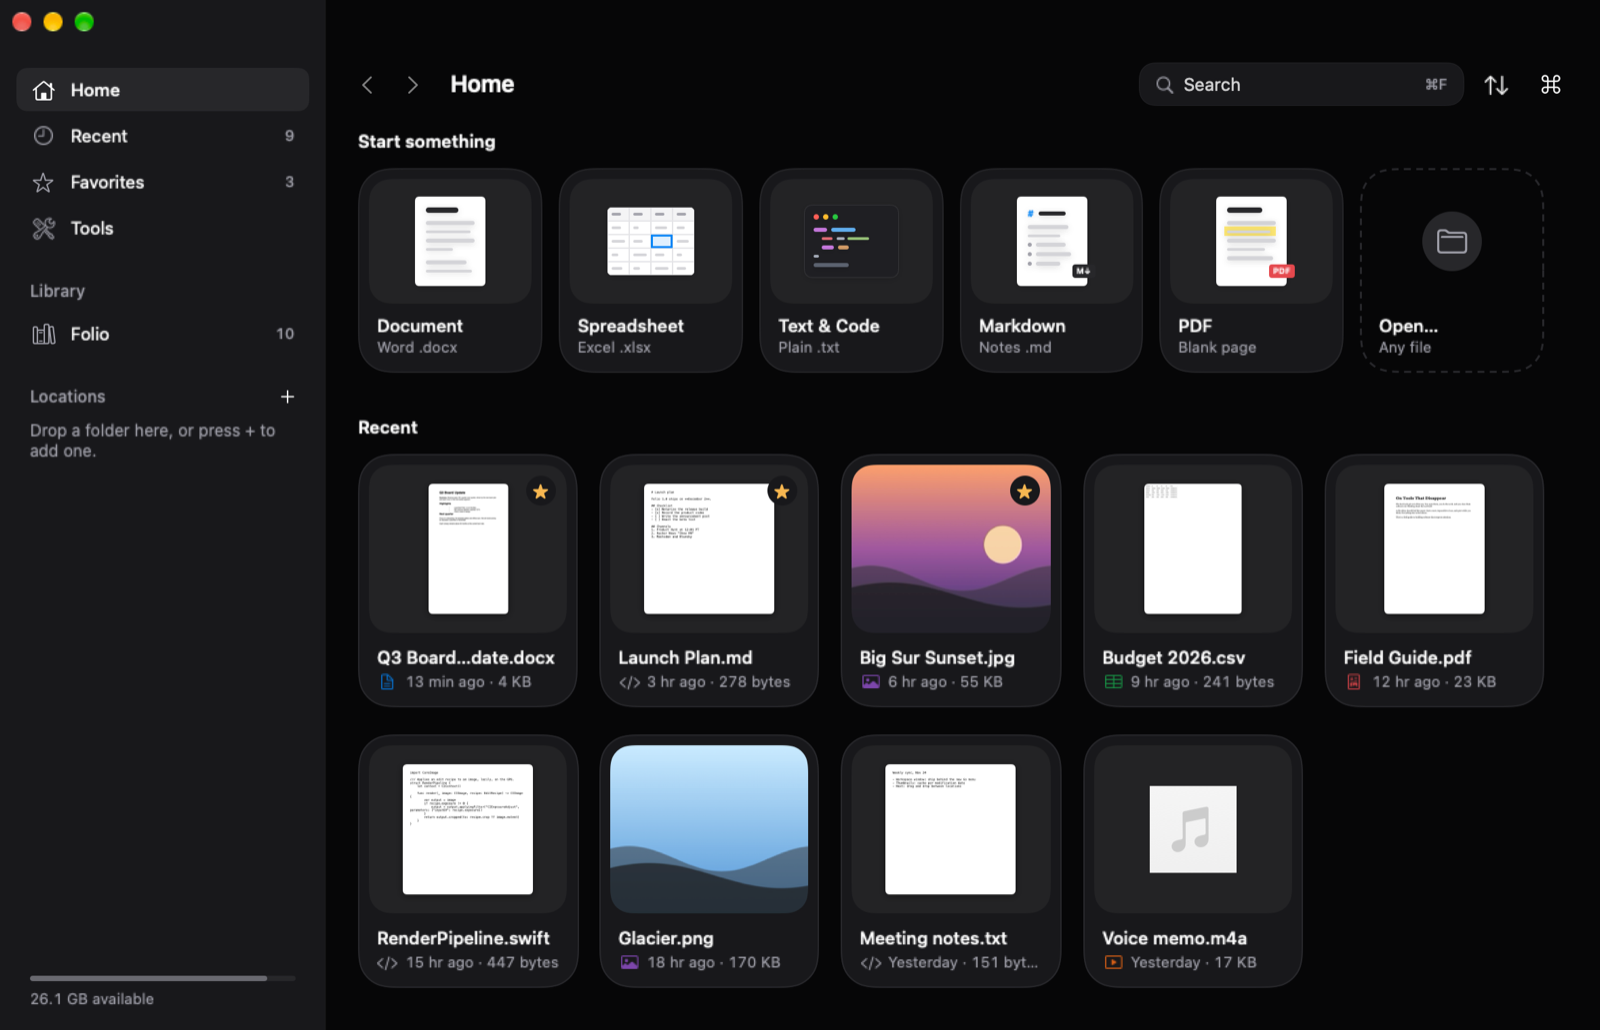
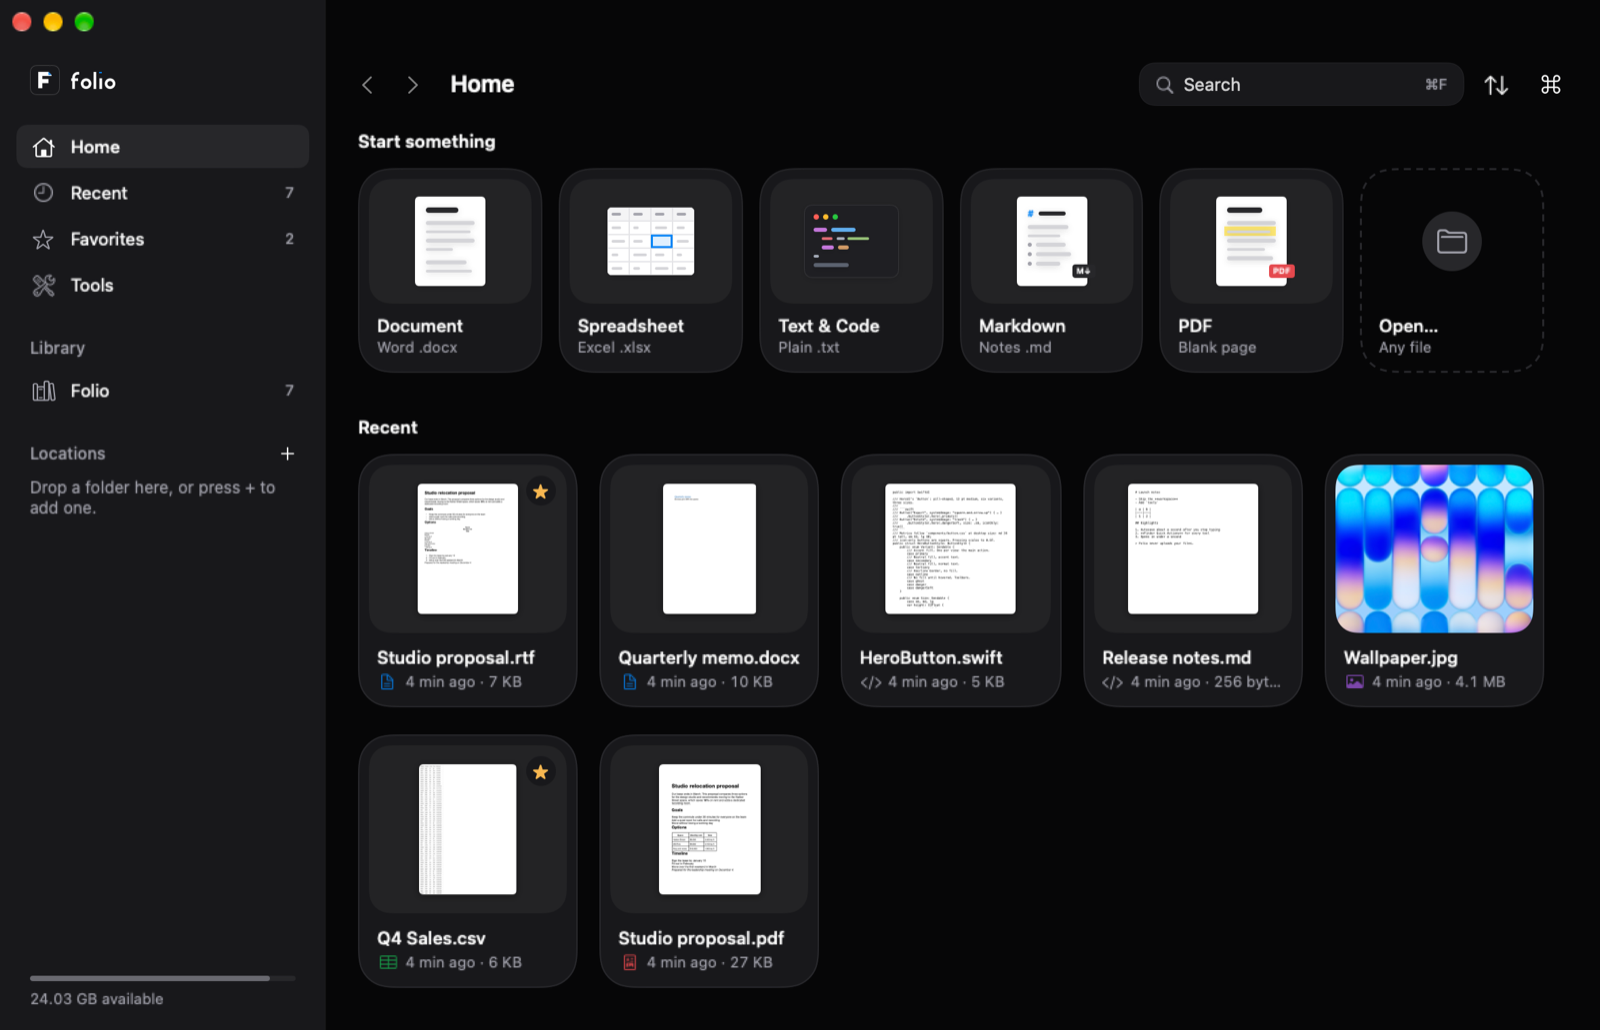
Brand the workspace and fix empty Recent outside ~/Documents
- Sidebar shows the Folio lockup, drawn by new FolioKit shapes (FolioMark,
  FolioWordmark) from the brand coordinates; the mark gets a hairline on dark
  backgrounds so it never dissolves into the sidebar.
- Recent and Favorites dropped every file when the library or a location sat
  under a path the noise filter skips (~/Library/...): the trusted-folder check
  compared against a doubled trailing slash. TrustedFolders normalises paths;
  tests cover nested files, prefix siblings and trailing slashes.
- README leads with the workspace and the brand lockup; site hero is the
  workspace; screenshots retaken against a sample library.

diff --git a/Sources/FolioKit/Design/FolioMark.swift b/Sources/FolioKit/Design/FolioMark.swift
@@ -1,0 +1,111 @@
+public import SwiftUI
+
+// The Folio mark and wordmark as SwiftUI shapes.
+//
+// Same coordinates as brand/logo/*.svg and scripts/make-icon.swift (a 64-unit tile for the
+// mark, an 84×33 box for the wordmark), so the app, the icon and the brand files never
+// drift. See brand/README.md for the construction.
+
+/// The folded F: the sheet, without the fold.
+public struct FolioGlyphSheet: Shape {
+    public init() {}
+    public func path(in rect: CGRect) -> Path {
+        Self.points(
+            [(20, 16), (40, 16), (46, 22), (46, 24), (28, 24), (28, 30), (40, 30), (40, 38), (28, 38), (28, 48), (20, 48)], in: rect)
+    }
+
+    /// Maps points on the 64-unit tile into `rect`, with the brand's 1.1× scale about the centre.
+    static func points(_ pts: [(CGFloat, CGFloat)], in rect: CGRect) -> Path {
+        let unit = min(rect.width, rect.height) / 64
+        func map(_ p: (CGFloat, CGFloat)) -> CGPoint {
+            CGPoint(x: rect.minX + (32 + (p.0 - 33) * 1.1) * unit, y: rect.minY + (32 + (p.1 - 32) * 1.1) * unit)
+        }
+        var path = Path()
+        path.move(to: map(pts[0]))
+        for p in pts.dropFirst() { path.addLine(to: map(p)) }
+        path.closeSubpath()
+        return path
+    }
+}
+
+/// The folded corner of the F.
+public struct FolioGlyphFold: Shape {
+    public init() {}
+    public func path(in rect: CGRect) -> Path {
+        FolioGlyphSheet.points([(40, 16), (40, 22), (46, 22)], in: rect)
+    }
+}
+
+/// The app-icon mark: Eclipse tile, Snow sheet, Folio Blue fold.
+///
+/// On dark backgrounds the Eclipse tile gets a hairline edge (brand/README.md, Color),
+/// so the mark never dissolves into a dark sidebar.
+public struct FolioMark: View {
+    @Environment(\.colorScheme) private var scheme
+    public init() {}
+    public var body: some View {
+        GeometryReader { geo in
+            let side = min(geo.size.width, geo.size.height)
+            ZStack {
+                RoundedRectangle(cornerRadius: side * 0.225, style: .continuous).fill(Color(hex: 0x18181B))
+                if scheme == .dark {
+                    RoundedRectangle(cornerRadius: side * 0.225, style: .continuous)
+                        .strokeBorder(.white.opacity(0.18), lineWidth: max(0.5, side / 64))
+                }
+                FolioGlyphSheet().fill(Color(hex: 0xFCFCFC))
+                FolioGlyphFold().fill(Hero.accent)
+            }
+            .frame(width: side, height: side)
+        }
+        .aspectRatio(1, contentMode: .fit)
+        .accessibilityLabel("Folio")
+    }
+}
+
+/// The geometric "folio" wordmark. Takes the foreground style; the i's dot stays Folio Blue.
+public struct FolioWordmark: View {
+    public init() {}
+    public var body: some View {
+        GeometryReader { geo in
+            let k = min(geo.size.width / 84, geo.size.height / 33)
+            ZStack(alignment: .topLeading) {
+                WordmarkStrokes()
+                    .stroke(style: StrokeStyle(lineWidth: 5 * k, lineCap: .butt))
+                Rectangle()
+                    .fill(Hero.accent)
+                    .frame(width: 5 * k, height: 5 * k)
+                    .offset(x: 54 * k)
+            }
+            .frame(width: 84 * k, height: 33 * k, alignment: .topLeading)
+        }
+        .aspectRatio(84 / 33, contentMode: .fit)
+        .accessibilityLabel("Folio")
+    }
+}
+
+/// The wordmark's strokes in an 84×33 box.
+private struct WordmarkStrokes: Shape {
+    func path(in rect: CGRect) -> Path {
+        let k = min(rect.width / 84, rect.height / 33)
+        func p(_ x: CGFloat, _ y: CGFloat) -> CGPoint { CGPoint(x: rect.minX + x * k, y: rect.minY + y * k) }
+        var path = Path()
+        // f
+        path.move(to: p(5.5, 32))
+        path.addLine(to: p(5.5, 10.5))
+        path.addArc(center: p(13.5, 10.5), radius: 8 * k, startAngle: .degrees(180), endAngle: .degrees(270), clockwise: false)
+        path.addLine(to: p(16, 2.5))
+        path.move(to: p(1, 14.5))
+        path.addLine(to: p(14, 14.5))
+        // o
+        path.addEllipse(in: CGRect(origin: p(21.5, 14.5), size: CGSize(width: 15 * k, height: 15 * k)))
+        // l
+        path.move(to: p(45.5, 0))
+        path.addLine(to: p(45.5, 32))
+        // i
+        path.move(to: p(56.5, 12))
+        path.addLine(to: p(56.5, 32))
+        // o
+        path.addEllipse(in: CGRect(origin: p(66.5, 14.5), size: CGSize(width: 15 * k, height: 15 * k)))
+        return path
+    }
+}

diff --git a/Sources/Folio/Workspace/WorkspaceModel.swift b/Sources/Folio/Workspace/WorkspaceModel.swift
@@ -226,8 +226,9 @@ final class WorkspaceModel {
         recentGeneration += 1
         let generation = recentGeneration
         let snapshot = dates
+        let roots = trustedRoots
         Task {
-            let items = await Self.load(snapshot)
+            let items = await Self.load(snapshot, trusted: roots)
             guard generation == recentGeneration else { return }
             recent = FileSort.lastOpened.sorted(items.filter { !$0.isFolder }, ascending: false)
             loadingRecent = false
@@ -240,8 +241,9 @@ final class WorkspaceModel {
         var urls = spotlightFavorites
         for item in libraryItems + folderItems + recent where item.isFavorite { urls.insert(item.url.standardizedFileURL) }
         let snapshot = Dictionary(urls.map { ($0, Date?.none) }) { a, _ in a }
+        let roots = trustedRoots
         Task {
-            let items = await Self.load(snapshot)
+            let items = await Self.load(snapshot, trusted: roots)
             favorites = FileSort.lastOpened.sorted(items.filter(\.isFavorite), ascending: false)
         }
     }
@@ -285,9 +287,17 @@ final class WorkspaceModel {
         FileItem.list(folder: folder)
     }
 
-    nonisolated private static func load(_ urls: [URL: Date?]) async -> [FileItem] {
-        urls.compactMap { url, date in SpotlightSearch.isNoise(url) ? nil : FileItem.load(url, lastUsed: date) }
+    /// Loads items, skipping system noise (caches, app support) unless the file is inside a
+    /// folder the user chose: the library and added locations are never noise, wherever they are.
+    nonisolated private static func load(_ urls: [URL: Date?], trusted roots: [URL]) async -> [FileItem] {
+        return urls.compactMap { url, date in
+            let trusted = TrustedFolders.contains(url, in: roots)
+            return !trusted && SpotlightSearch.isNoise(url) ? nil : FileItem.load(url, lastUsed: date)
+        }
     }
+
+    /// Folders the user picked, whose contents always count as their files.
+    private var trustedRoots: [URL] { [libraryURL] + locations }
 
     nonisolated private static func capacity(of url: URL) async -> (Int64, Int64)? {
         let values = try? url.resourceValues(forKeys: [.volumeAvailableCapacityForImportantUsageKey, .volumeTotalCapacityKey])

diff --git a/Tests/FolioTests/WorkspaceLogicTests.swift b/Tests/FolioTests/WorkspaceLogicTests.swift
@@ -167,3 +167,25 @@ struct LibraryTests {
         #expect(FileItem.load(url)?.isFavorite == false)
     }
 }
+
+@Suite("Trusted folders")
+struct TrustedFolderTests {
+    @Test func filesInsideAChosenFolderAreTrustedEvenUnderLibrary() {
+        let root = URL(fileURLWithPath: "/Users/me/Library/Application Support/Folio", isDirectory: true)
+        #expect(TrustedFolders.contains(URL(fileURLWithPath: "/Users/me/Library/Application Support/Folio/Notes.md"), in: [root]))
+        #expect(TrustedFolders.contains(URL(fileURLWithPath: "/Users/me/Library/Application Support/Folio/Sub/a.pdf"), in: [root]))
+    }
+
+    @Test func siblingsWithASharedPrefixAreNotTrusted() {
+        let root = URL(fileURLWithPath: "/Users/me/Documents/Folio", isDirectory: true)
+        #expect(!TrustedFolders.contains(URL(fileURLWithPath: "/Users/me/Documents/Folio Old/a.pdf"), in: [root]))
+        #expect(!TrustedFolders.contains(URL(fileURLWithPath: "/Users/me/Library/Caches/a.pdf"), in: [root]))
+    }
+
+    @Test func trailingSlashesDoNotMatter() {
+        let withSlash = URL(fileURLWithPath: "/tmp/lib/", isDirectory: true)
+        let withoutSlash = URL(fileURLWithPath: "/tmp/lib")
+        #expect(TrustedFolders.contains(URL(fileURLWithPath: "/tmp/lib/x.txt"), in: [withSlash]))
+        #expect(TrustedFolders.contains(URL(fileURLWithPath: "/tmp/lib/x.txt"), in: [withoutSlash]))
+    }
+}

diff --git a/Sources/Folio/Workspace/WorkspaceLogic.swift b/Sources/Folio/Workspace/WorkspaceLogic.swift
@@ -134,3 +134,25 @@ nonisolated enum FileNaming {
 nonisolated func formattedSize(_ bytes: Int64) -> String {
     ByteCountFormatter.string(fromByteCount: bytes, countStyle: .file)
 }
+
+/// Whether a file sits inside one of the folders the user chose (library, locations).
+nonisolated enum TrustedFolders {
+    /// True when `url` is `root` itself or anywhere beneath it.
+    ///
+    /// Compares normalised paths: `URL.path(percentEncoded:)` keeps a trailing slash on
+    /// directory URLs, and a naive `root + "/"` prefix then never matches. That bug once
+    /// hid every Recent file in libraries outside ~/Documents.
+    static func contains(_ url: URL, in roots: [URL]) -> Bool {
+        let path = normalized(url)
+        return roots.contains { root in
+            let base = normalized(root)
+            return path == base || path.hasPrefix(base + "/")
+        }
+    }
+
+    private static func normalized(_ url: URL) -> String {
+        var path = url.standardizedFileURL.path(percentEncoded: false)
+        while path.count > 1 && path.hasSuffix("/") { path.removeLast() }
+        return path
+    }
+}

diff --git a/Sources/Folio/Workspace/WorkspaceSidebar.swift b/Sources/Folio/Workspace/WorkspaceSidebar.swift
@@ -14,6 +14,16 @@ struct WorkspaceSidebar: View {
 
     var body: some View {
         VStack(alignment: .leading, spacing: 0) {
+            // The lockup, as in brand/logo/folio-lockup.svg: wordmark height ≈ 60% of the tile.
+            HStack(spacing: 8) {
+                FolioMark().frame(width: 22, height: 22)
+                FolioWordmark().frame(height: 13).foregroundStyle(Hero.foreground)
+            }
+            .padding(.horizontal, 22)
+            .padding(.top, 6)
+            .padding(.bottom, 14)
+            .accessibilityElement(children: .ignore)
+            .accessibilityLabel("Folio")
             ScrollView {
                 VStack(alignment: .leading, spacing: 2) {
                     row("Home", symbol: "house", destination: .home)

diff --git a/site/main.js b/site/main.js
@@ -58,7 +58,7 @@ for (const button of document.querySelectorAll("[data-copy]")) {
 // request 404s quietly and the mock stays.
 const heroImage = new Image();
 heroImage.onload = () => {
-  heroImage.alt = "Folio editing a proposal: a page with a table and lists, an outline sidebar and a formatting toolbar.";
+  heroImage.alt = "The Folio workspace: a sidebar with Home, Recent, Favorites and the library, new-file tiles, and a grid of recent files with previews.";
   heroImage.width = heroImage.naturalWidth;
   heroImage.height = heroImage.naturalHeight;
   document.getElementById("hero-visual").replaceChildren(heroImage);

diff --git a/README.md b/README.md
@@ -1,8 +1,9 @@
 <p align="center">
-  <img src="site/assets/icon.png" width="96" alt="">
+  <picture>
+    <source media="(prefers-color-scheme: dark)" srcset="brand/logo/folio-lockup-white.svg">
+    <img src="brand/logo/folio-lockup.svg" width="240" alt="Folio">
+  </picture>
 </p>
-
-<h1 align="center">Folio</h1>
 
 <p align="center">
   Every file you edit, in one native Mac app.<br>
@@ -13,28 +14,33 @@
   <a href="https://github.com/AryanM24/folio/releases/latest"><b>Download for Mac</b></a> ·
   <a href="#build-from-source">Build from source</a> ·
   <a href="docs/ARCHITECTURE.md">Architecture</a> ·
-  <a href="CONTRIBUTING.md">Contributing</a>
+  <a href="CONTRIBUTING.md">Contributing</a> ·
+  <a href="brand/README.md">Brand</a>
 </p>
 
 <p align="center">
-  <img src="docs/screenshots/documents.png" alt="Folio editing a proposal with a table, lists and an outline sidebar">
+  <img src="docs/screenshots/workspace.png" alt="The Folio workspace: a sidebar of places, new-file tiles and recent files with previews">
 </p>
 
 <table>
   <tr>
+    <td><img src="docs/screenshots/documents.png" alt="Document editor with a table, lists and an outline sidebar"></td>
     <td><img src="docs/screenshots/pdf.png" alt="PDF editor with page thumbnails and annotation toolbar"></td>
-    <td><img src="docs/screenshots/spreadsheet-dark.png" alt="Spreadsheet editor in dark mode with formulas"></td>
   </tr>
   <tr>
+    <td><img src="docs/screenshots/spreadsheet-dark.png" alt="Spreadsheet editor in dark mode with formulas"></td>
     <td><img src="docs/screenshots/markdown.png" alt="Markdown editor with live preview"></td>
+  </tr>
+  <tr>
     <td><img src="docs/screenshots/image-dark.png" alt="Image editor with adjustment sliders in dark mode"></td>
+    <td><img src="docs/screenshots/code-dark.png" alt="Swift source with syntax highlighting in dark mode"></td>
   </tr>
 </table>
 
 ## A home for your files
 
 <p align="center">
-  <img src="docs/screenshots/workspace.png" alt="The Folio workspace: a sidebar of places, Start something tiles, and recent files as cards">
+  <img src="docs/screenshots/workspace-dark.png" alt="The Folio workspace in dark mode">
 </p>
 
 Folio opens to its **workspace**: start a new document, spreadsheet, note or PDF in one click, then pick up recent work across your Mac. Files stay ordinary files in folders you choose (new work goes to *~/Documents/Folio*); favorites are a Finder tag, so the star shows up in Finder too. Search, filter by kind, preview with Space, rename, move, share or trash with Undo, run tools on a selection, and press ⌘K for everything else.
